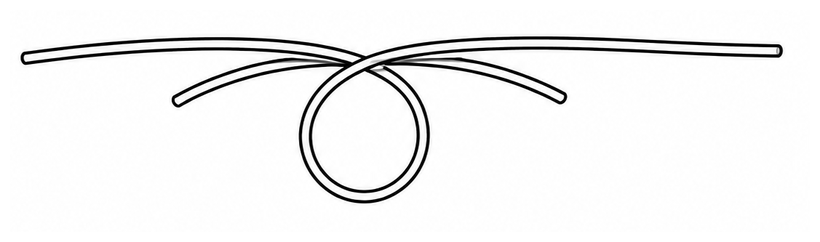
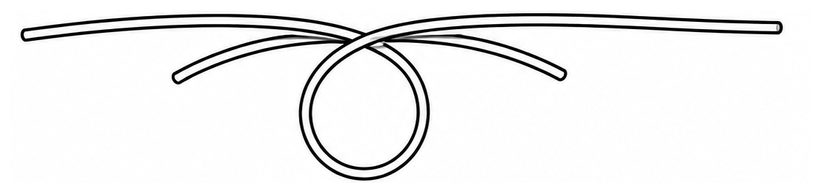
fix(skola): automatsko nalaženje panela — dno duple petlje je bilo odsečeno
Koordinate panela sam pogađao ručno i promašio: kod duple petlje tinta
panela 4 ide do y=1524, a rez je bio na 1490 — odsečeno 34 px, tj. dno
petlje, baš ono što taj korak treba da pokaže.

auto_rows() sad meri gde tinta zaista počinje i staje po redovima, pa
vraća granice panela. Vertikalno složene sekvence (dupla petlja,
hirurški) idu kroz to i rez ne može da promaši; Palomar ostaje na
ručnim koordinatama jer je 2x2 raspored.

Spec u PANELS je za takve setove ('rows', broj_panela, prefiks, x_od),
gde x_od odseca brojeve koraka sa leve strane. Ako broj nađenih panela
ne odgovara očekivanom, alat pukne umesto da tiho iseče pogrešno.

Oba seta ponovo isečena i pregledana.

Changed region(s): [[0.0, 0.0622, 0.9756, 0.9637], [0.4878, 0.4974, 0.5488, 0.5285]]

diff --git a/tools/knot_images.py b/tools/knot_images.py
@@ -15,6 +15,38 @@ from PIL import Image
 MAX_SIDE = 820  # line art se ne gleda veće; drži PNG male
 
 
+def auto_rows(src, expected, gap=14, step=3):
+    """Nalazi panele u slici složenoj vertikalno, po prazninama u tinti.
+
+    Ručno pogađanje koordinata je već jednom odsekло dno crteža (dupla petlja,
+    panel 4). Ovo meri gde tinta zaista počinje i staje, pa reza nema šanse da
+    promaši. `step` preskače piksele po x — detekcija ne traži tačnost.
+    """
+    g = src.convert('L')
+    w, h = g.size
+    px = g.load()
+    ink = []
+    for y in range(h):
+        for x in range(0, w, step):
+            if px[x, y] < 128:
+                ink.append(y)
+                break
+    if not ink:
+        raise SystemExit('nema tinte u slici')
+    bands = []
+    start = prev = ink[0]
+    for y in ink[1:]:
+        if y - prev > gap:
+            bands.append((start, prev))
+            start = y
+        prev = y
+    bands.append((start, prev))
+    if len(bands) != expected:
+        raise SystemExit(
+            f'nadjeno {len(bands)} panela, ocekivano {expected}: {bands}')
+    return bands
+
+
 def panel(src, box, out, pad=14):
     im = src.crop(box).convert('L')
     # luminancija -> alfa: belo (255) prozirno, crno (0) puno
@@ -47,20 +79,10 @@ PANELS = {
         'palomar-3': (95, 385, 725, 885),
         'palomar-4': (840, 560, 1736, 840),
     },
-    # Dupla petlja (surgeon's loop): 4 panela vertikalno (1000x1573).
-    'surgeon-loop': {
-        'surgeonloop-1': (0, 15, 1000, 400),
-        'surgeonloop-2': (0, 460, 1000, 855),
-        'surgeonloop-3': (0, 900, 1000, 1225),
-        'surgeonloop-4': (0, 1280, 1000, 1490),
-    },
-    # Hirurški čvor: 4 panela vertikalno, brojevi levo (1199x1312).
-    'surgeon': {
-        'surgeon-1': (100, 40, 1199, 180),
-        'surgeon-2': (100, 270, 1199, 575),
-        'surgeon-3': (100, 605, 1199, 980),
-        'surgeon-4': (100, 1035, 1199, 1270),
-    },
+    # Vertikalno složene sekvence — paneli se nalaze automatski.
+    # ('rows', broj_panela, prefiks, x_od) — x_od odseca brojeve koraka levo.
+    'surgeon-loop': ('rows', 4, 'surgeonloop', 0),
+    'surgeon': ('rows', 4, 'surgeon', 100),
 }
 
 
@@ -68,7 +90,14 @@ if __name__ == '__main__':
     src_path, out_dir = sys.argv[1], sys.argv[2]
     which = sys.argv[3] if len(sys.argv) > 3 else 'palomar'
     src = Image.open(src_path).convert('RGB')
-    boxes = PANELS[which]
+    spec = PANELS[which]
+    if isinstance(spec, tuple):
+        _, n, prefix, x0 = spec
+        bands = auto_rows(src, n)
+        boxes = {f'{prefix}-{i}': (x0, a - 4, src.width, b + 4)
+                 for i, (a, b) in enumerate(bands, 1)}
+    else:
+        boxes = spec
     for name, box in boxes.items():
         size = panel(src, box, f'{out_dir}/{name}.png')
         print(f'{name}.png {size[0]}x{size[1]}')
